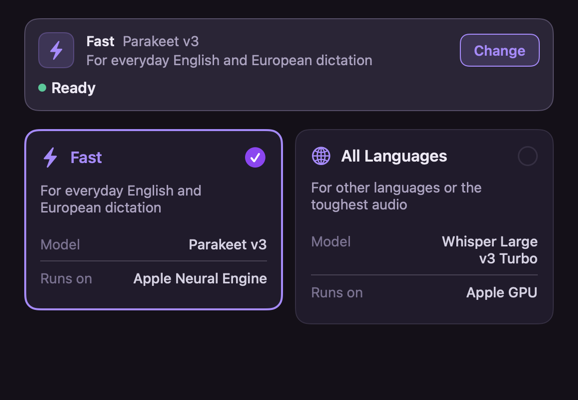
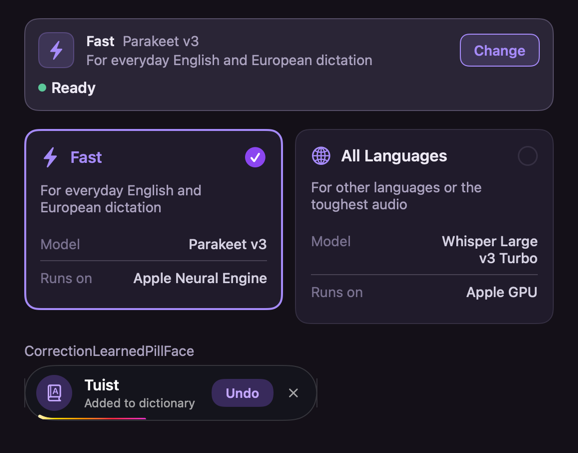
docs(atlas): the cards parts sheet pictures show the new Self-Learning card (#4675)
Re-rendered parts-cards light and dark with the atlas render command; the
renderer's 20 unrelated rewrites were restored. Inventory text updated.

Part of #4675.

Self-audit-grep: /usr/bin/grep -n 'parts-cards' design/atlas/inventory.md design/atlas/atlas.json (pictures, inventory and index agree)
Self-audit-owner: design/atlas owns the design picture book

diff --git a/design/atlas/inventory.md b/design/atlas/inventory.md
@@ -347,7 +347,7 @@ Every approved part on one sheet, from `DesignPartsSheets` (`Tests/EnviousWisprT
 **Tabs, choices, switches, fields, buttons.** Tab strip (Engine selected, underline), choice bars (Casual, Neutral, Formal; Always, Continue), drop-downs (a square outlined `SettingsMenuPicker` button "Until I delete them" with an up-down chevron; two `SettingsDropdownRow` menu rows "Auto / Follows macOS" with a check and "MacBook Pro Microphone / Built-in"), switches on, off, self-disabled and parent-disabled, a slider with value badge and Low/High labels, a text field and a focused field (2pt accent border); buttons filled "Download", outlined "Test", quiet "Back", destructive "Delete", each enabled, self-disabled and parent-disabled; wizard pair "Back" and large "Continue →"; outlined "Preview" with a play glyph; decorative button; close X; onboarding "Onboarding continue". Known: outlined capsule buttons show slightly flattened side edges (open founder item, #4506 plan §14).
 
 ## parts-cards
-**Summary and engine cards.** A summary card (bolt icon tile, "Fast Parakeet v3", description, "Change" button, "Ready" status) and two engine cards: "Fast" selected (accent border, check badge) and "All Languages" not selected, each with Model and Runs on facts.
+**Summary and engine cards.** A summary card (bolt icon tile, "Fast Parakeet v3", description, "Change" button, "Ready" status) and two engine cards: "Fast" selected (accent border, check badge) and "All Languages" not selected, each with Model and Runs on facts. Below them, labelled "CorrectionLearnedPillFace", the learned-word pill at rest (`CorrectionLearnedPillFace`): a round book icon, "Tuist" with "Added to dictionary" under it, a filled "Undo" button, a quiet ×, and the brand countdown line along the bottom edge, drawn 40% of the way.
 
 # Hand photos
 
